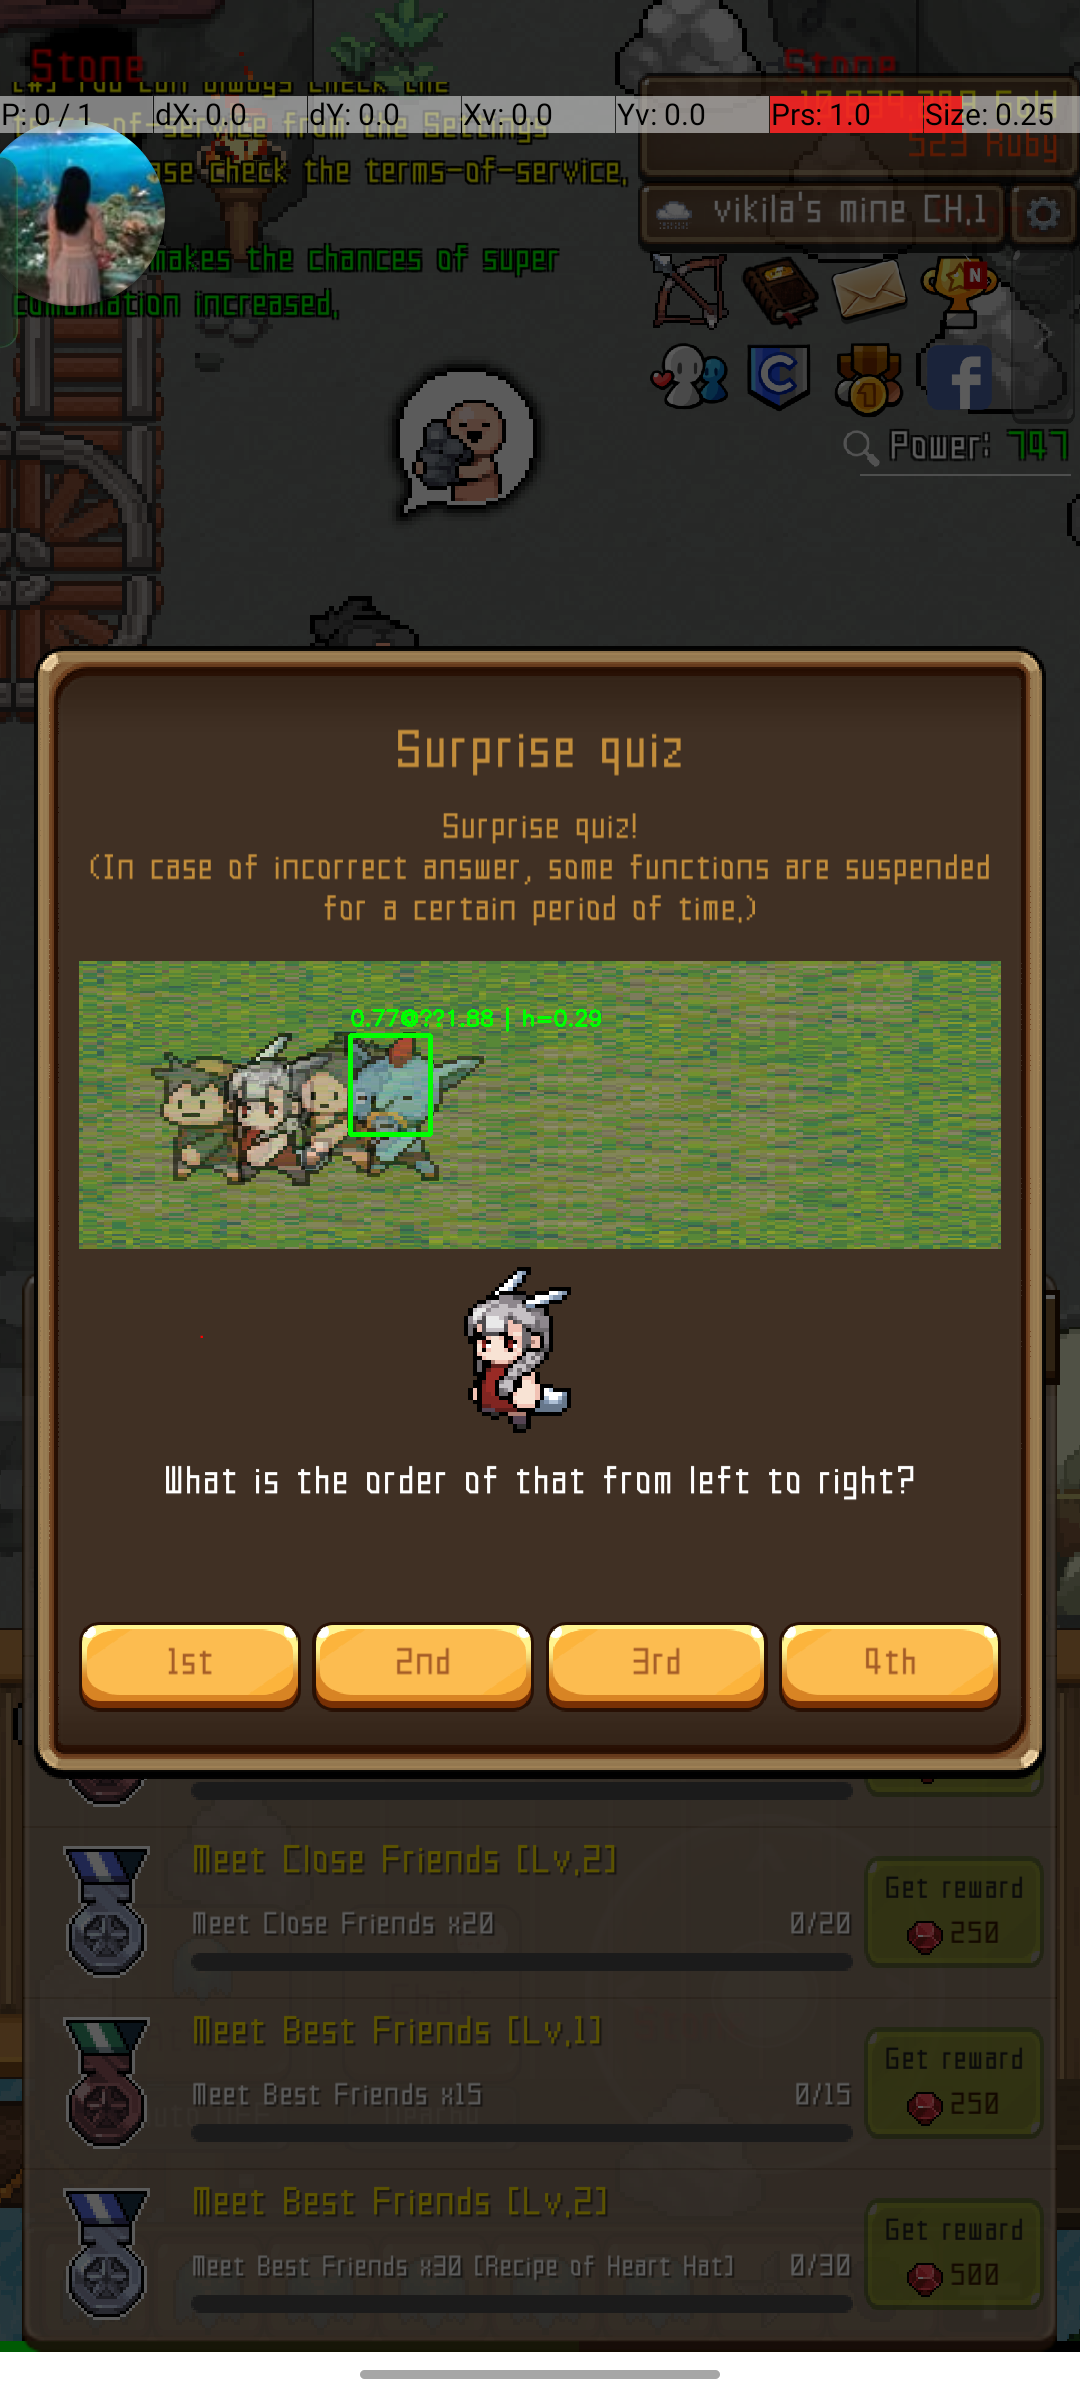
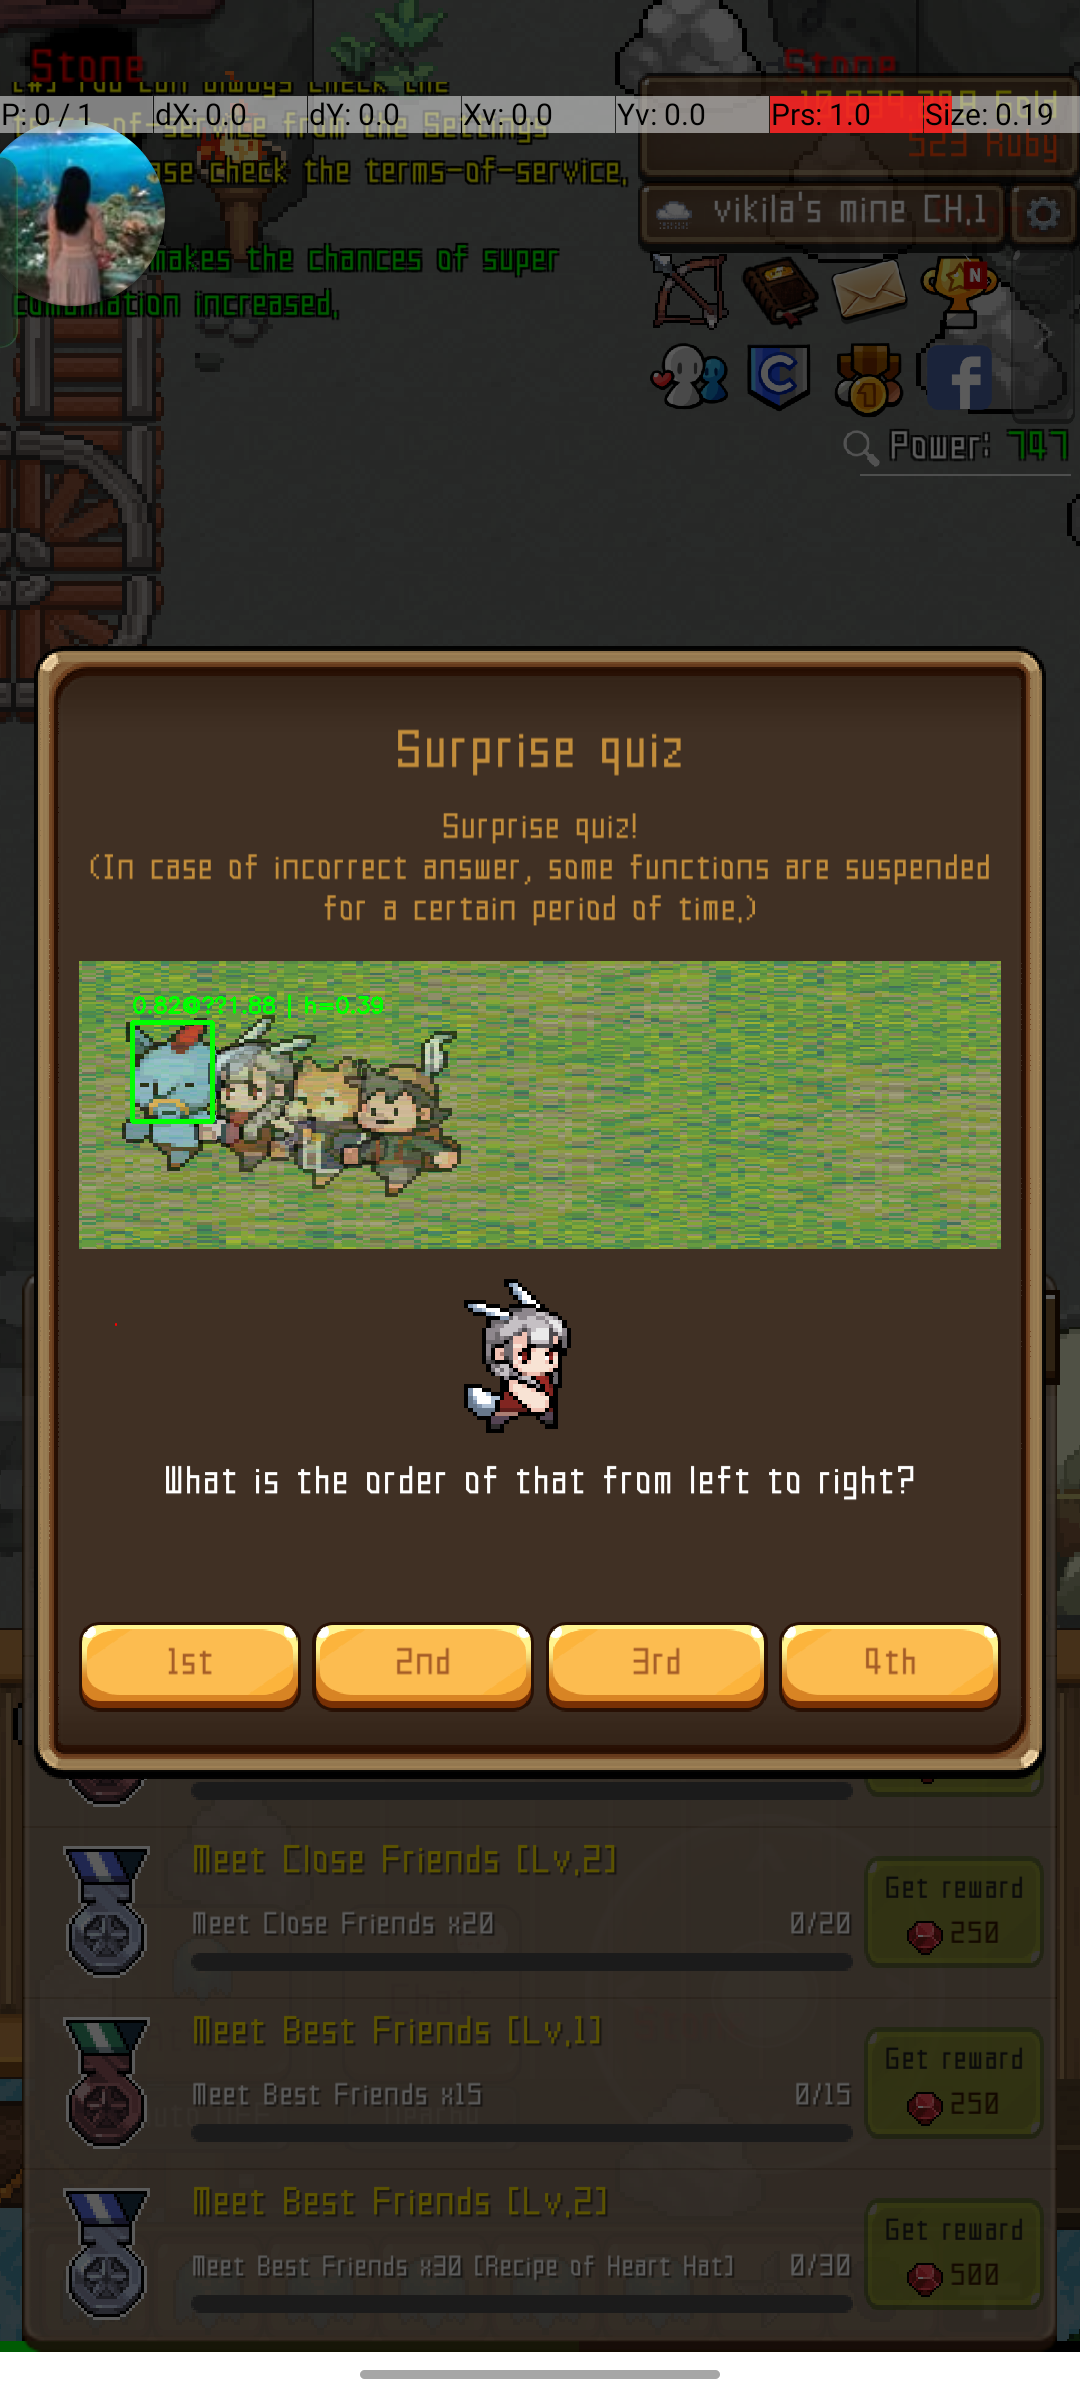
tap capcha

diff --git a/main.py b/main.py
@@ -7,12 +7,15 @@ import math
 from character_utils import detect_characters_group_bbox
 from detect_utils import detect_template
 from sovle_quiz import find_search_user ,get_search_user,sovle_capcha,sovle_capchav2
+import uiautomator2 as u2
 from constants import (
 DEVICE_ID,
 TEMPLATE_PATH,
 GRASS_ROI,
 SAVE_IMAGE,
-OUTPUT_PATH
+OUTPUT_PATH,
+CAPTCHA_TEMPLATE,
+CAPTCHA_ROI
 )
 def adb_tap_random_circle(x, y, radius=10, device_id=None):
     # Tạo điểm ngẫu nhiên trong hình tròn
@@ -30,6 +33,21 @@ def adb_tap_random_circle(x, y, radius=10, device_id=None):
     cmd += ["shell", "input", "tap", str(rx), str(ry)]
     subprocess.run(cmd)
 
+def uiauto_tap(x, y, radius=15, device_ip="127.0.0.1"):
+    # Random điểm trong bán kính
+    angle = random.uniform(0, 2 * math.pi)
+    r = radius * math.sqrt(random.uniform(0, 1))
+    dx = int(r * math.cos(angle))
+    dy = int(r * math.sin(angle))
+
+    rx, ry = x + dx, y + dy
+
+    # Delay nhỏ để giả lập thao tác người
+    time.sleep(random.uniform(0.2, 0.8))
+
+    # Kết nối và tap
+    d = u2.connect(device_ip)
+    d.click(rx, ry)
 def adb_screencap(device_id=None):
     # Chụp màn hình qua ADB và giải mã thành ảnh OpenCV
     cmd = ["adb"] + (
@@ -43,61 +61,51 @@ def adb_screencap(device_id=None):
         sys.exit(1)
     return img
 
+def tap_capcha(device_id=None):
+    full_img = adb_screencap()
+    idx = sovle_capchav2(full_img)
+    match idx:
+        case 1:
+            uiauto_tap(160, 1656, 10, DEVICE_ID)
+        case 2:
+            uiauto_tap(400, 1656, 10, DEVICE_ID)
+        case 3:
+            uiauto_tap(635, 1656, 10, DEVICE_ID)
+        case 4:
+            uiauto_tap(855, 1656, 10, DEVICE_ID)
+
+def is_captcha_present(image):
+    try:
+        _, info = detect_template(image, CAPTCHA_TEMPLATE, CAPTCHA_ROI)
+        print(f"[CAPTCHA] Đã phát hiện tại {info['top_left']}, score: {info['match_score']:.2f}")
+        return True
+    except Exception:
+        return False
+
+
+def monitor_loop(device_id, interval_sec=1.5):
+    print(f"[Giám sát] Bắt đầu theo dõi {device_id}...")
+    while True:
+        try:
+            # uiauto_tap(78, 1656, DEVICE_ID)
+            screen = adb_screencap(device_id=device_id)
+            if is_captcha_present(screen):
+                print(f"[{device_id}] ✓ Đã phát hiện CAPTCHA")
+                tap_capcha(device_id)
+                #time.sleep(2)  # Đợi sau khi xử lý captcha
+            else:
+                print(f"[{device_id}] ✓ Không phát hiện CAPTCHA")
+        except Exception as e:
+            print(f"[{device_id}] Lỗi: {e}")
+        time.sleep(interval_sec)
+
 
 if __name__ == "__main__":
     import subprocess
     import sys
-    start_time = time.time()  # Bắt đầu đo tổng thời gian
-
-    full_img = adb_screencap()
-    sovle_capchav2(full_img)
-    # for i in range(5):
-        
-
-
-    # x1_1, y1_1, x2_1, y2_1 = detect_characters_group_bbox(full_img)
-
-    # divided_by_four = round((x2_1 - x1_1)/ 4,1)
+   # start_time = time.time()  # Bắt đầu đo tổng thời gian
+    monitor_loop(DEVICE_ID, interval_sec=1)  # Bắt đầu giám sát
     
-
-
-    # try:
-    #     annotated, result = detect_template(
-    #         full_img,
-    #         TEMPLATE_PATH,
-    #         GRASS_ROI,
-    #     )
-    # except ValueError as e:
-    #     # Xử lý lỗi không tìm được match
-    #     print(f"Phát hiện thất bại: {e}", file=sys.stderr)
-    #     sys.exit(1)
-
-
-
-    # x1, y1 = result["top_left"]
-    # x2, y2 = result["bottom_right"]
-    # # print("divided_by_four ",divided_by_four)
-    # # print(f"Vùng phát hiện x1_1: {x1_1}, x2_2: {x2_1}")
-    # # print(f"Vùng phát hiện x1: {x1}, x2: {x2}")
-
-
-    # count =0
-    # for i in range(5):
-    #     if divided_by_four*count <= x1<= divided_by_four * (count +1):
-    #         # print("divided_by_four", divided_by_four*count)
-    #         # print("x1: ",x1)
-    #         # print("divided_by_four+divided_by_four", divided_by_four * (count +1))
-    #         break
-    #     count += 1                # tăng đếm lên 1
-        
-
-    # print('count', count)
-
-
-    # #Lưu ảnh nếu cần
-    # if SAVE_IMAGE and annotated is not None:
-    #     cv2.imwrite(OUTPUT_PATH, annotated)
-    #     print(f"✅ Đã lưu ảnh → {OUTPUT_PATH}")
 
 
     # # In tổng thời gian

diff --git a/sovle_quiz.py b/sovle_quiz.py
@@ -152,16 +152,16 @@ def detech_slim_user(img: np.ndarray, roi: tuple[int, int, int, int]):
             annotated, result = detect_template(img, user, roi, 0.7, 0.02, 1, SCALE_MAX, 30, 30, None, True)
             if result:
                 x1, y1 = result["top_left"]
-                print(f'user find is index {idx}- x1: {x1} - match_score: {result['match_score']} - hist_corr: {result['hist_corr']} - user:{user}' )
-                cv2.imwrite(f'./debug_list_slim/image{idx}.png', annotated)
-                print(f"✅ Đã lưu ảnh → ./debug_list_slim/image{idx}.png")
-                print()
+                # print(f'user find is index {idx}- x1: {x1} - match_score: {result['match_score']} - hist_corr: {result['hist_corr']} - user:{user}' )
+                # cv2.imwrite(f'./debug_list_slim/image{idx}.png', annotated)
+                # print(f"✅ Đã lưu ảnh → ./debug_list_slim/image{idx}.png")
+                # print()
                
                 matched_users.append((x1, user))  # Lưu lại khi tìm được
         except ValueError as e:
             msg, x1, y1, x2, y2 = e.args
-            print(f"[{idx}] Phát hiện thất bại: {msg!r} – user={user}")
-            print()
+            # print(f"[{idx}] Phát hiện thất bại: {msg!r} – user={user}")
+            # print()
     matched_users.sort()
     return matched_users
 
@@ -187,10 +187,11 @@ def sovle_capchav2(img:np.ndarray):
     
         
     idx = find_user_index_by_path(matched_users, slim_image)
-    if idx is not None:
-        print(f"✅ Tìm thấy tại vị trí index: {idx}")
-    else:
-        print("❌ Không tìm thấy")
+    return idx
+    # if idx is not None:
+    #     print(f"✅ Tìm thấy tại vị trí index: {idx}")
+    # else:
+    #     print("❌ Không tìm thấy")
   
         # return sovle_capchav2(img)
     # try:

diff --git a/constants.py b/constants.py
@@ -2,6 +2,7 @@ SAVE_IMAGE = True  # Có lưu ảnh annotate không
 TEMPLATE_PATH = "./growstone/quiz/faces/slim-fninja2.png"
 DEVICE_ID = None  # ID thiết bị ADB nếu có nhiều thiết bị
 GRASS_ROI = (80, 960, 1000, 290)  # Vùng quan tâm (x0, y0, w, h)
+CAPTCHA_ROI = (140, 700, 800, 95)  # Vùng quan tâm cho captcha
 SEARCH_USER_ROI = (400,1265,250, 150)
 THRESHOLD = 0.6  # Ngưỡng matchTemplate
 HIST_THRESHOLD = 0.01  # Ngưỡng histogram correlation
@@ -11,3 +12,4 @@ FINE_STEPS = 20  # Số bước lọc chi tiết
 
 COARSE_STEPS = 20 # Số bước lọc thôz
 OUTPUT_PATH = "debug.png"  # Đường dẫn lưu ảnh
+CAPTCHA_TEMPLATE = "./growstone/quiz/surprise-quiz.png"  # Đường dẫn template captcha
